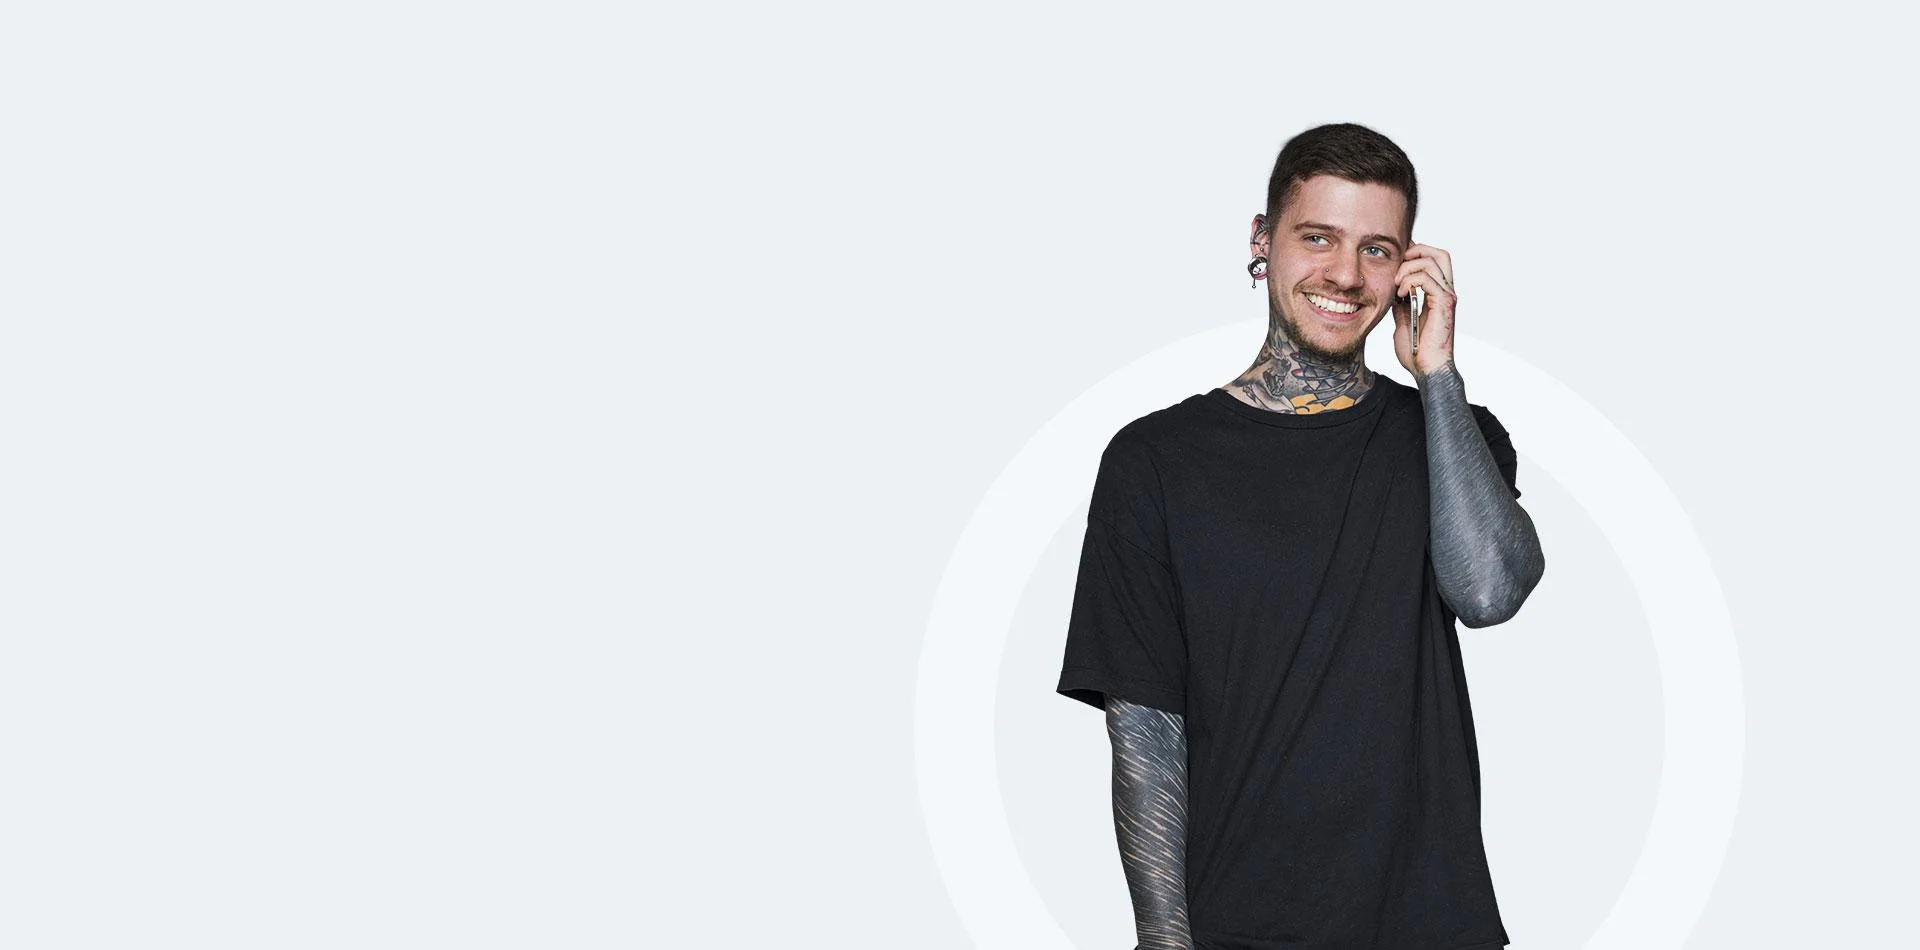
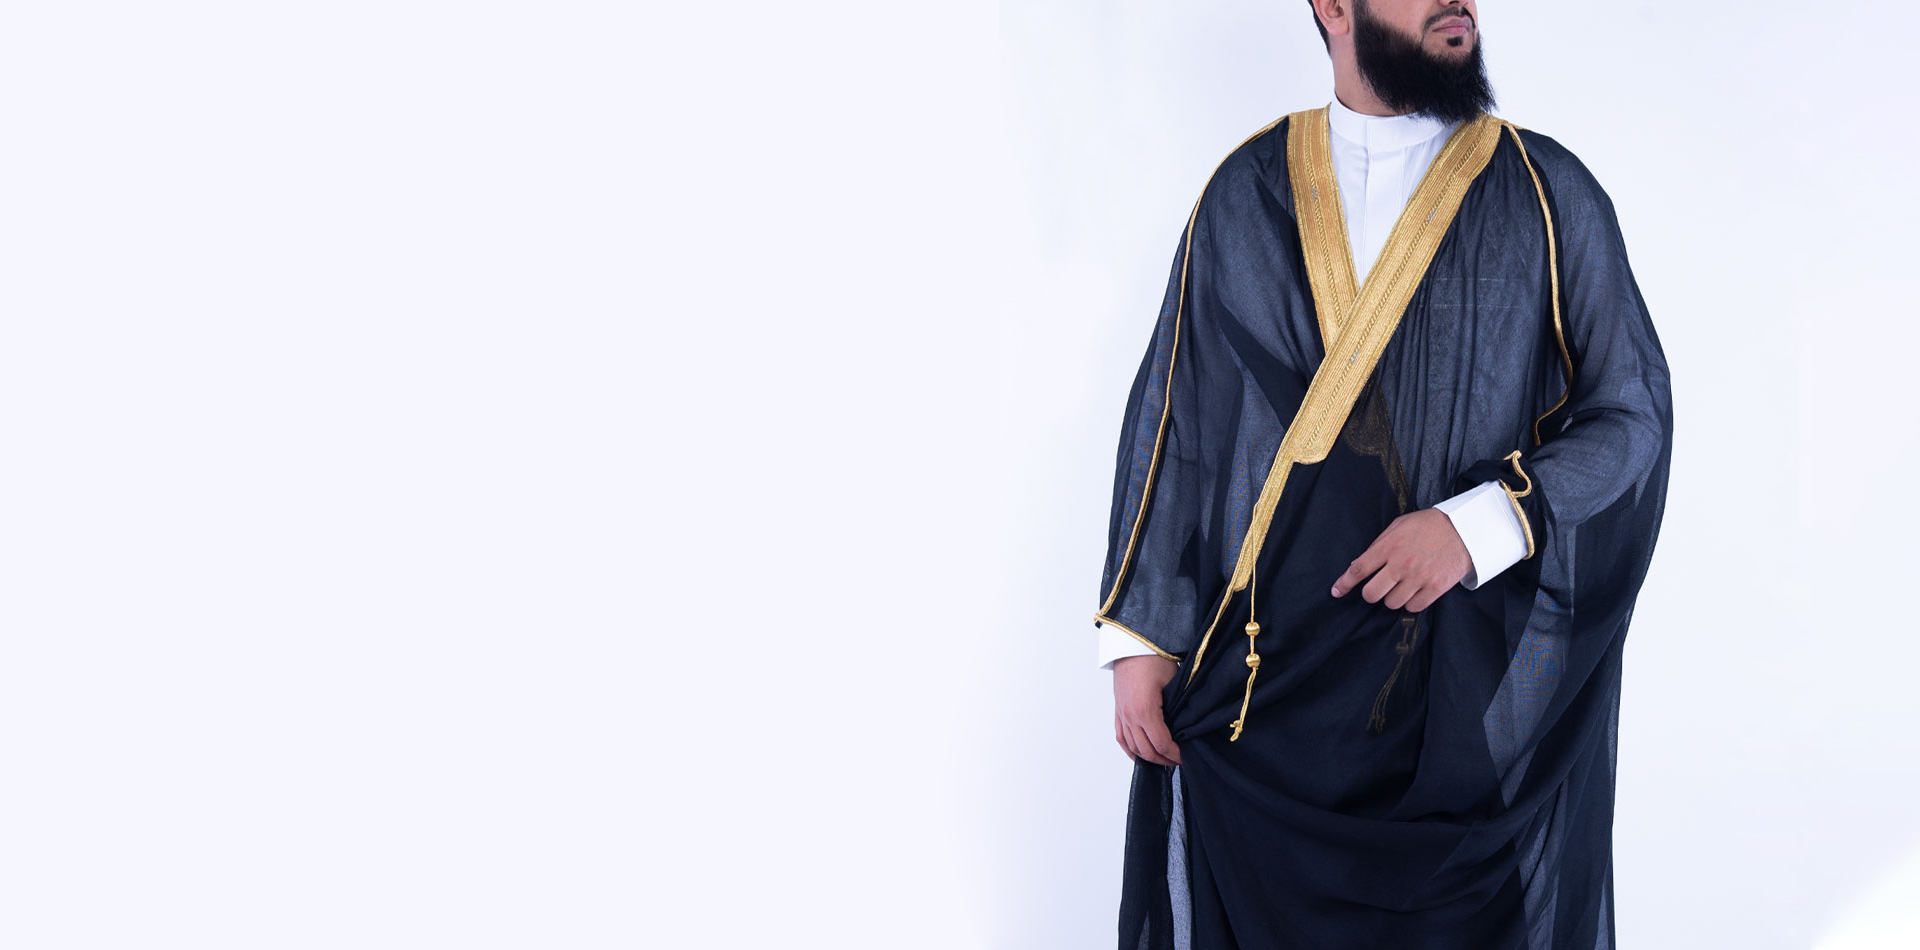
upload images

Changed region(s): [[0.5312, 0.0, 0.875, 1.0]]

diff --git a/index.html b/index.html
@@ -411,10 +411,17 @@
             </div>
         </div>
         <!-- Service Area End Here -->
-
+      
         <!-- Begin Banner Area -->
         <div class="banner-area">
             <div class="container">
+                <div class="py-5  text-center mx-auto" dir="rtl">
+                    <h3>
+                        <span>
+                            "لازونيس: صندوق بشت مع قطعه قماش للرجال  ."
+                        </span>
+                    </h3>
+                </div>
                 <div class="row">
                     <div class="col-md-4 col-6 custom-xxs-col">
                         <div class="banner-item img-hover_effect">
@@ -2405,7 +2412,9 @@
                             </p>
                             <div class="single-contact-block">
                                 <h4><i class="fa fa-fax"></i> العنوان </h4>
-                                <p>123 Main Street, Anytown, CA 12345 – USA</p>
+                                <p>
+                                    الواحة ، حي الدمام ، المملكة العربية السعودية
+                                </p>
                             </div>
                             <div class="single-contact-block">
                                 <h4><i class="fa fa-phone"></i> الهاتف </h4>

diff --git a/en/index.html b/en/index.html
@@ -425,6 +425,13 @@
         <!-- Begin Banner Area -->
         <div class="banner-area">
             <div class="container">
+                <div class="py-5 container text-center mx-auto" >
+                    <h3>
+                        <span>
+                            "Lazzonis: Bisht box with a piece of cloth for men."
+                        </span>
+                    </h3>
+                </div>
                 <div class="row">
                     <div class="col-md-4 col-6 custom-xxs-col">
                         <div class="banner-item img-hover_effect">
@@ -2417,7 +2424,7 @@
                             </p>
                             <div class="single-contact-block">
                                 <h4><i class="fa fa-fax"></i> Address</h4>
-                                <p>123 Main Street, Anytown, CA 12345 – USA</p>
+                                <p>Alwaha, district Dammam, Saudi Arabia</p>
                             </div>
                             <div class="single-contact-block">
                                 <h4><i class="fa fa-phone"></i> Phone</h4>

diff --git a/assets/css/style.css b/assets/css/style.css
@@ -5028,7 +5028,7 @@ i, .tab-content .tab-pane.active, .scroll-to-top i, .quantity .cart-plus-minus >
 /*----------------------------------------*/
 @media (max-width: 575px) {
   .home-slider .slide-item {
-    background-position: left;
+    background-position: right;
   }
 }
 
@@ -5523,7 +5523,7 @@ i, .tab-content .tab-pane.active, .scroll-to-top i, .quantity .cart-plus-minus >
 .banner-area-5 .banner-item .banner-content > span {
   text-transform: uppercase;
   font-weight: 500;
-  letter-spacing: 4px;
+  /* letter-spacing: 4px; */
   display: block;
   padding-bottom: 10px;
 }
